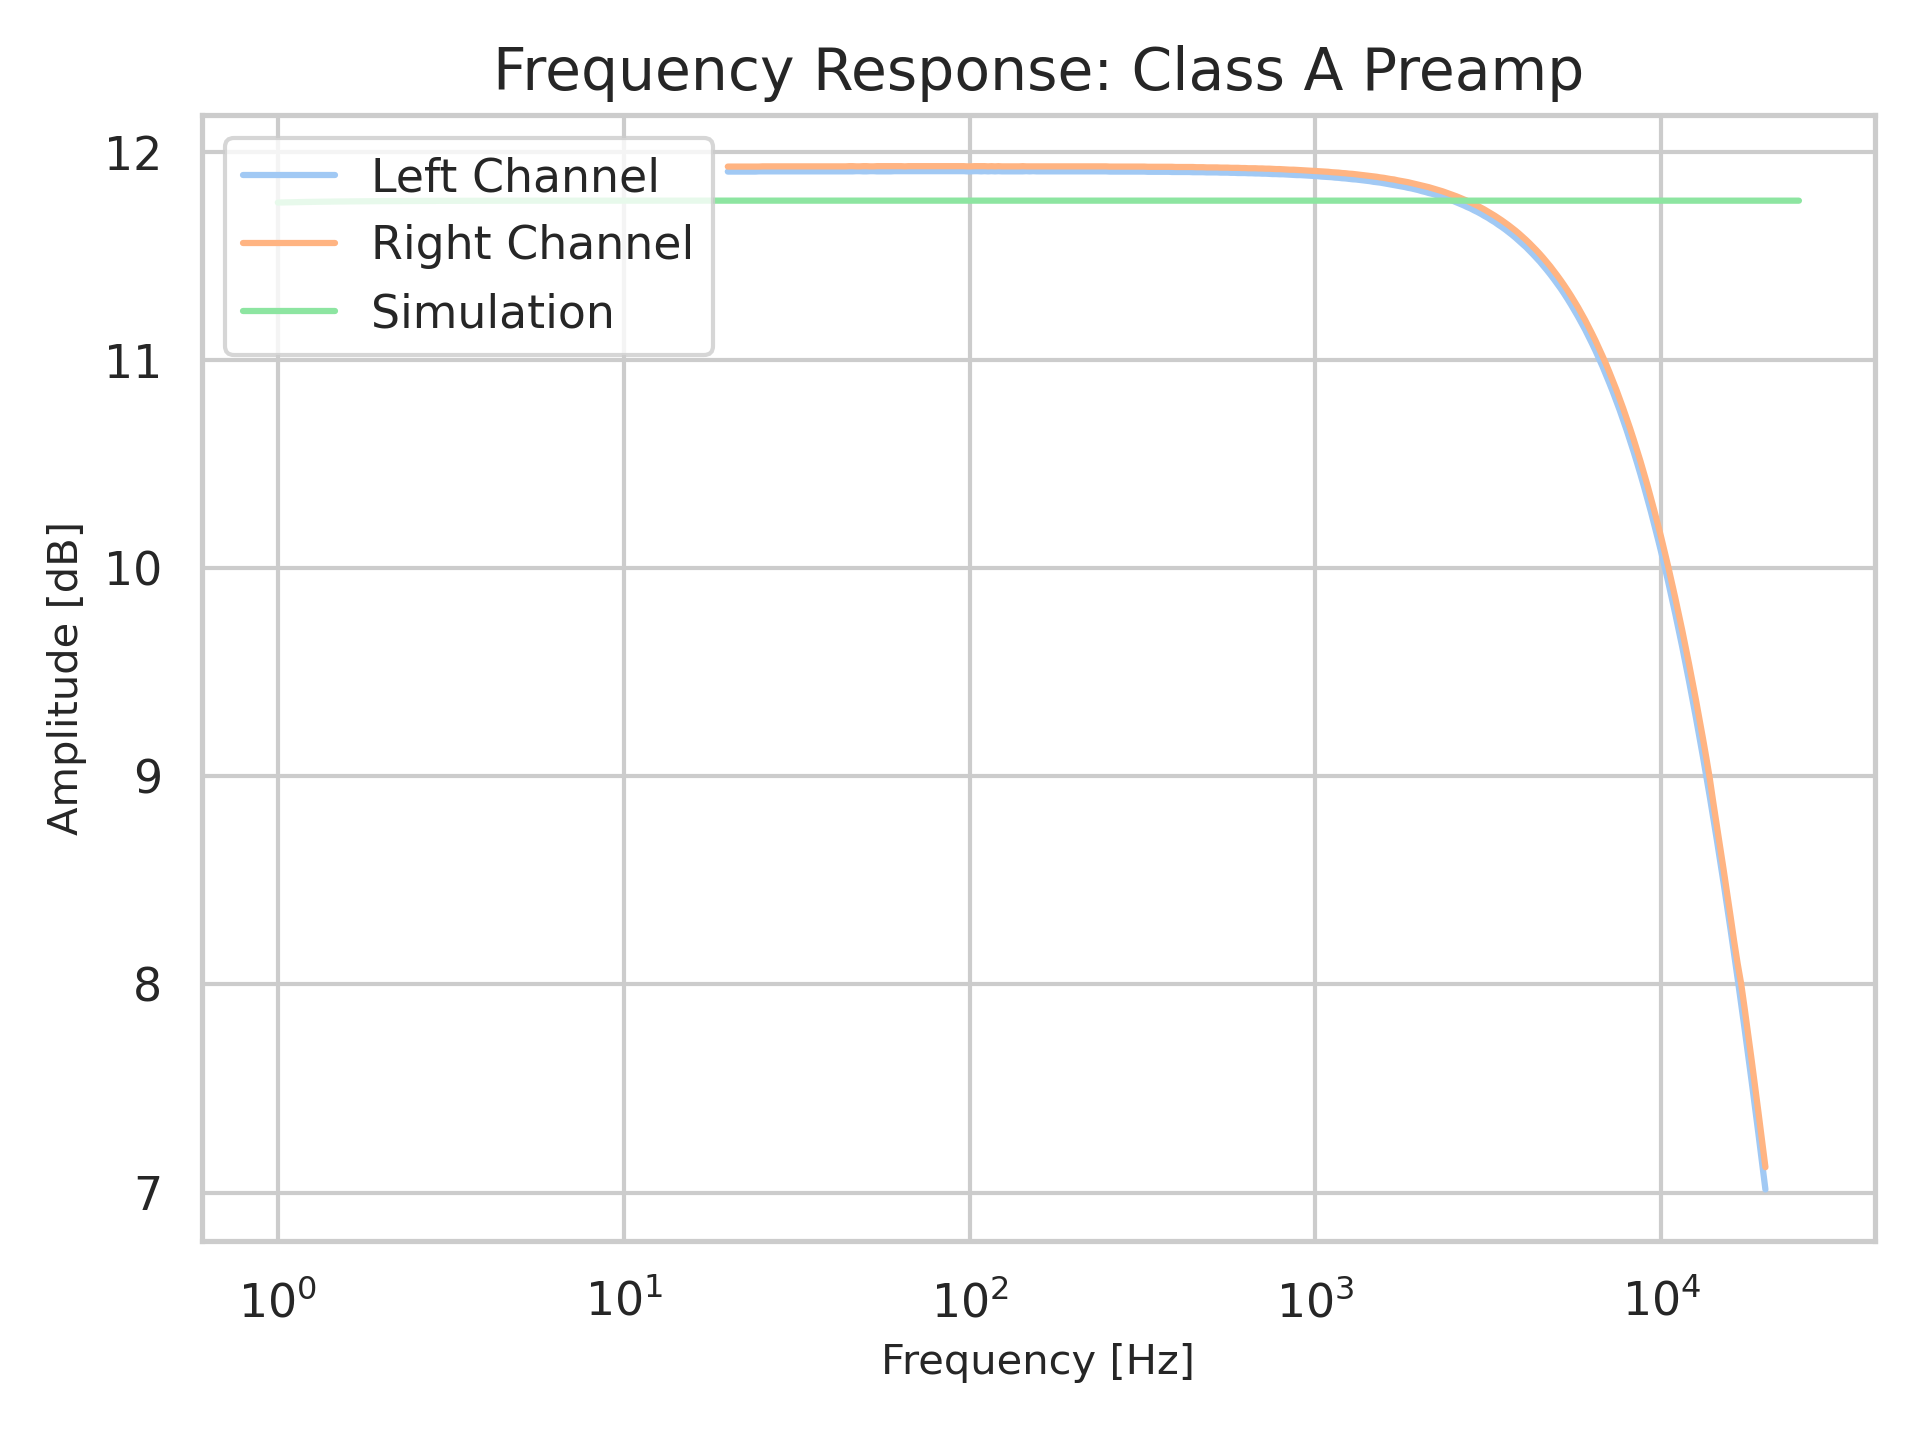
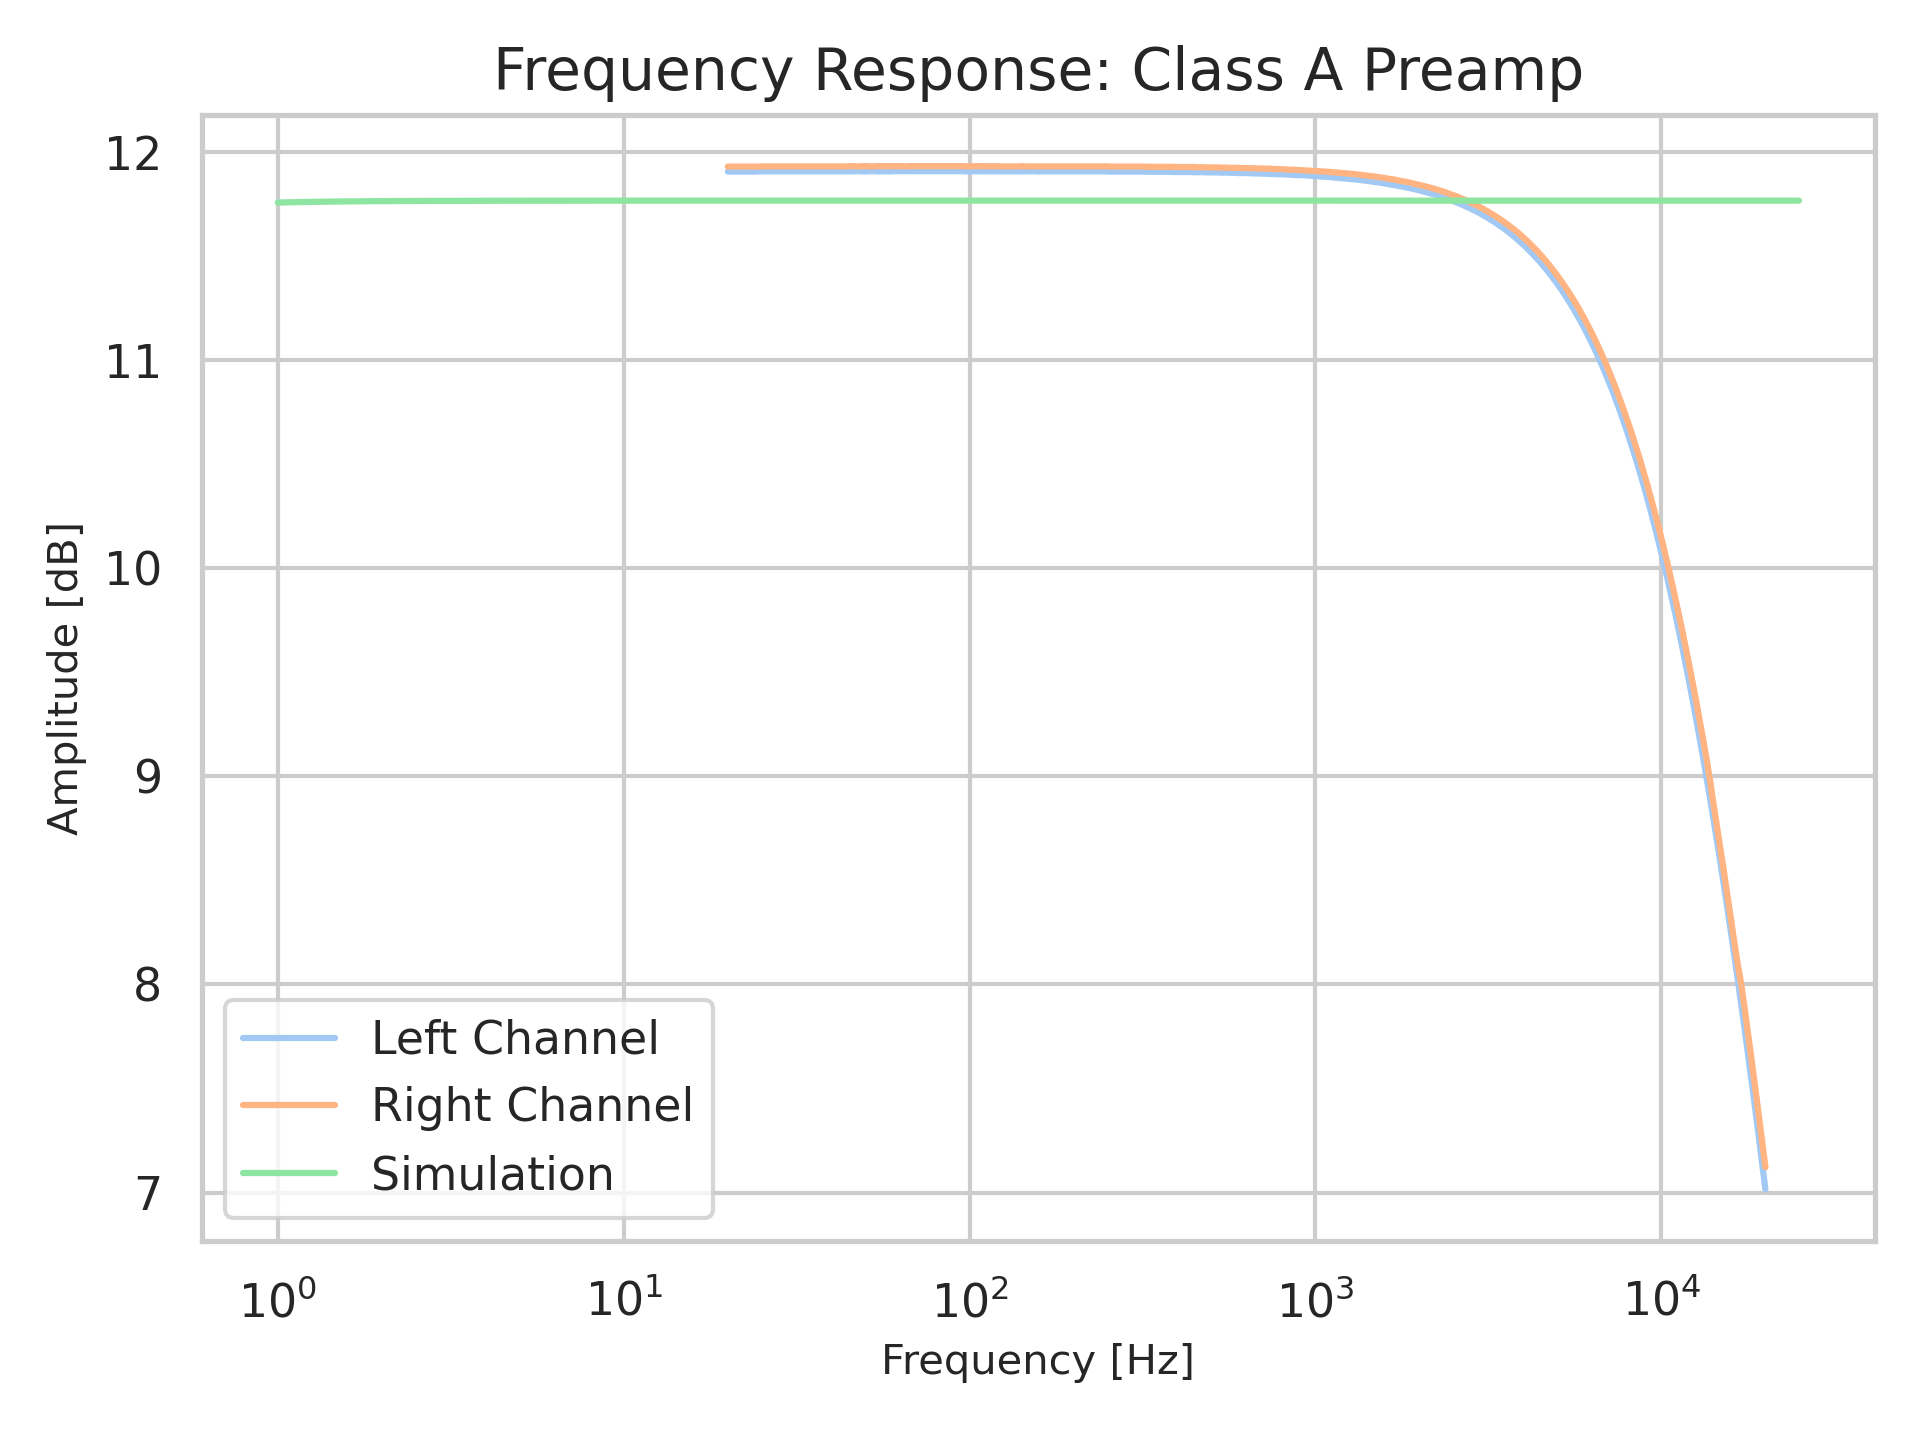
make label location use 'best' for non obstruction of data

diff --git a/integration_test/input_impedance_analogdiscovery.py b/integration_test/input_impedance_analogdiscovery.py
@@ -85,7 +85,7 @@ ax.plot(f, df_R[y_csv_column].to_numpy()/1e3, label="Right Channel")
 
 # Customize axes and grids for better aesthetics
 plt.grid(True)  # Show grid
-plt.legend(loc='upper left')
+plt.legend(loc='best')
 
 # Use tight layout to automatically adjust subplot params
 plt.tight_layout()

diff --git a/integration_test/output_impedance_analogdiscovery.py b/integration_test/output_impedance_analogdiscovery.py
@@ -112,7 +112,7 @@ ax.plot(f, zo_R, label="Right Channel")
 
 # Customize axes and grids for better aesthetics
 plt.grid(True)  # Show grid
-plt.legend(loc='upper left')
+plt.legend(loc='best')
 
 # Use tight layout to automatically adjust subplot params
 plt.tight_layout()

diff --git a/integration_test/audio_analyser_plot.py b/integration_test/audio_analyser_plot.py
@@ -92,7 +92,7 @@ if args.calfile:
 
 # Customize axes and grids for better aesthetics
 plt.grid(True)  # Show grid
-plt.legend(loc='upper left')
+plt.legend(loc='best')
 
 # Use tight layout to automatically adjust subplot params
 plt.tight_layout()
